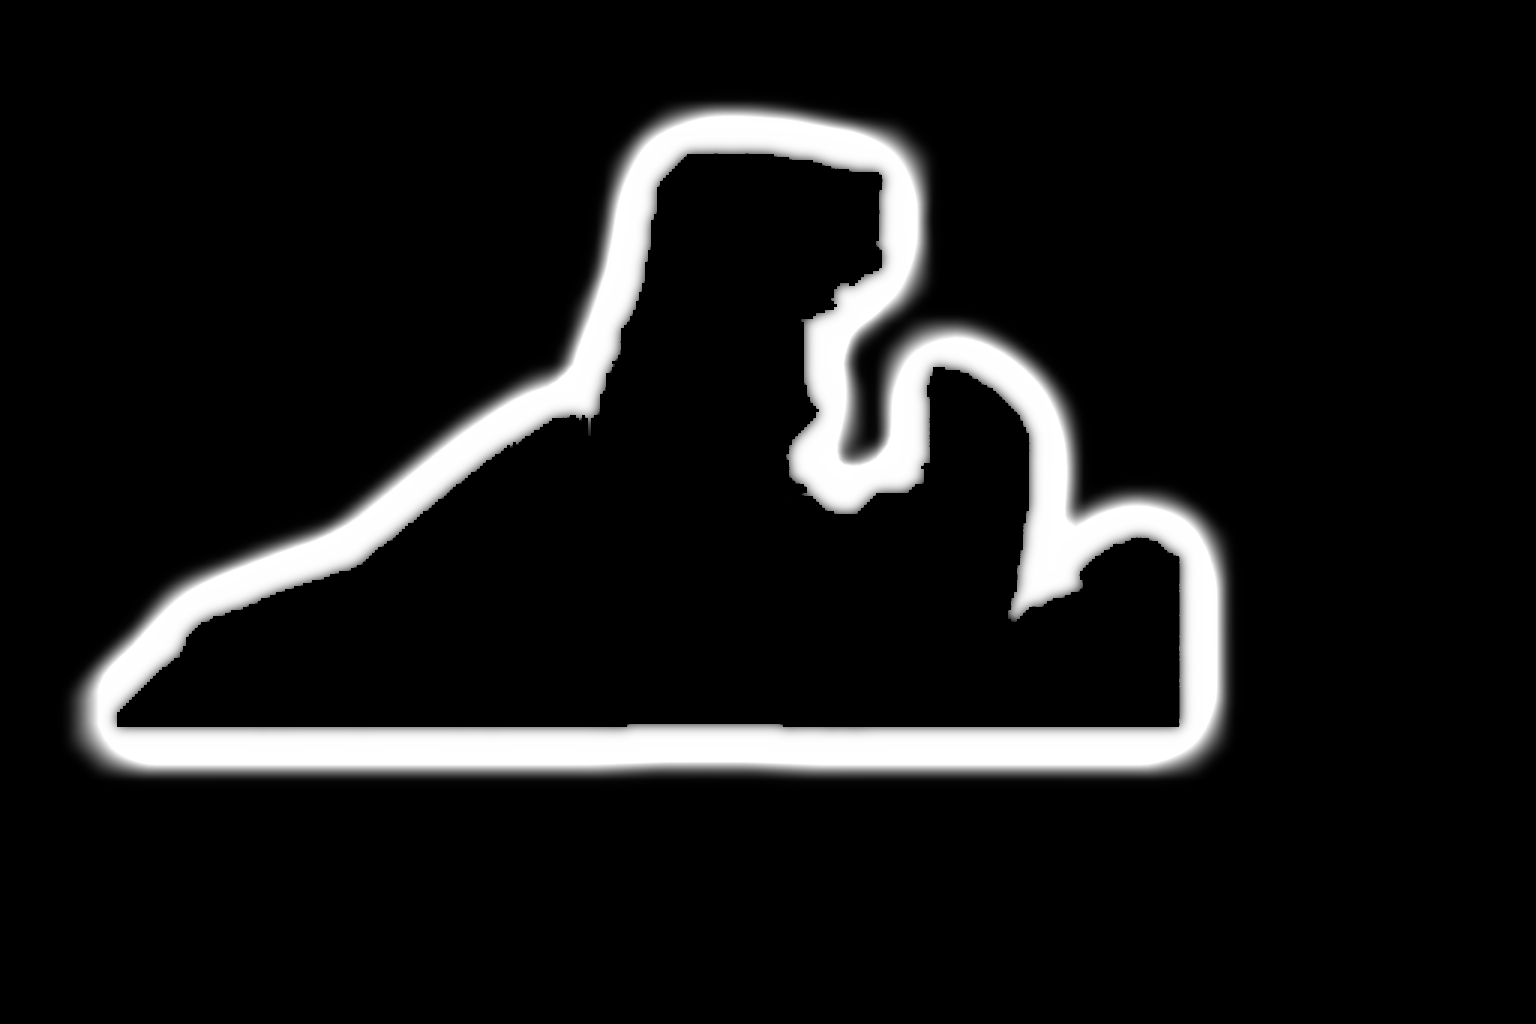
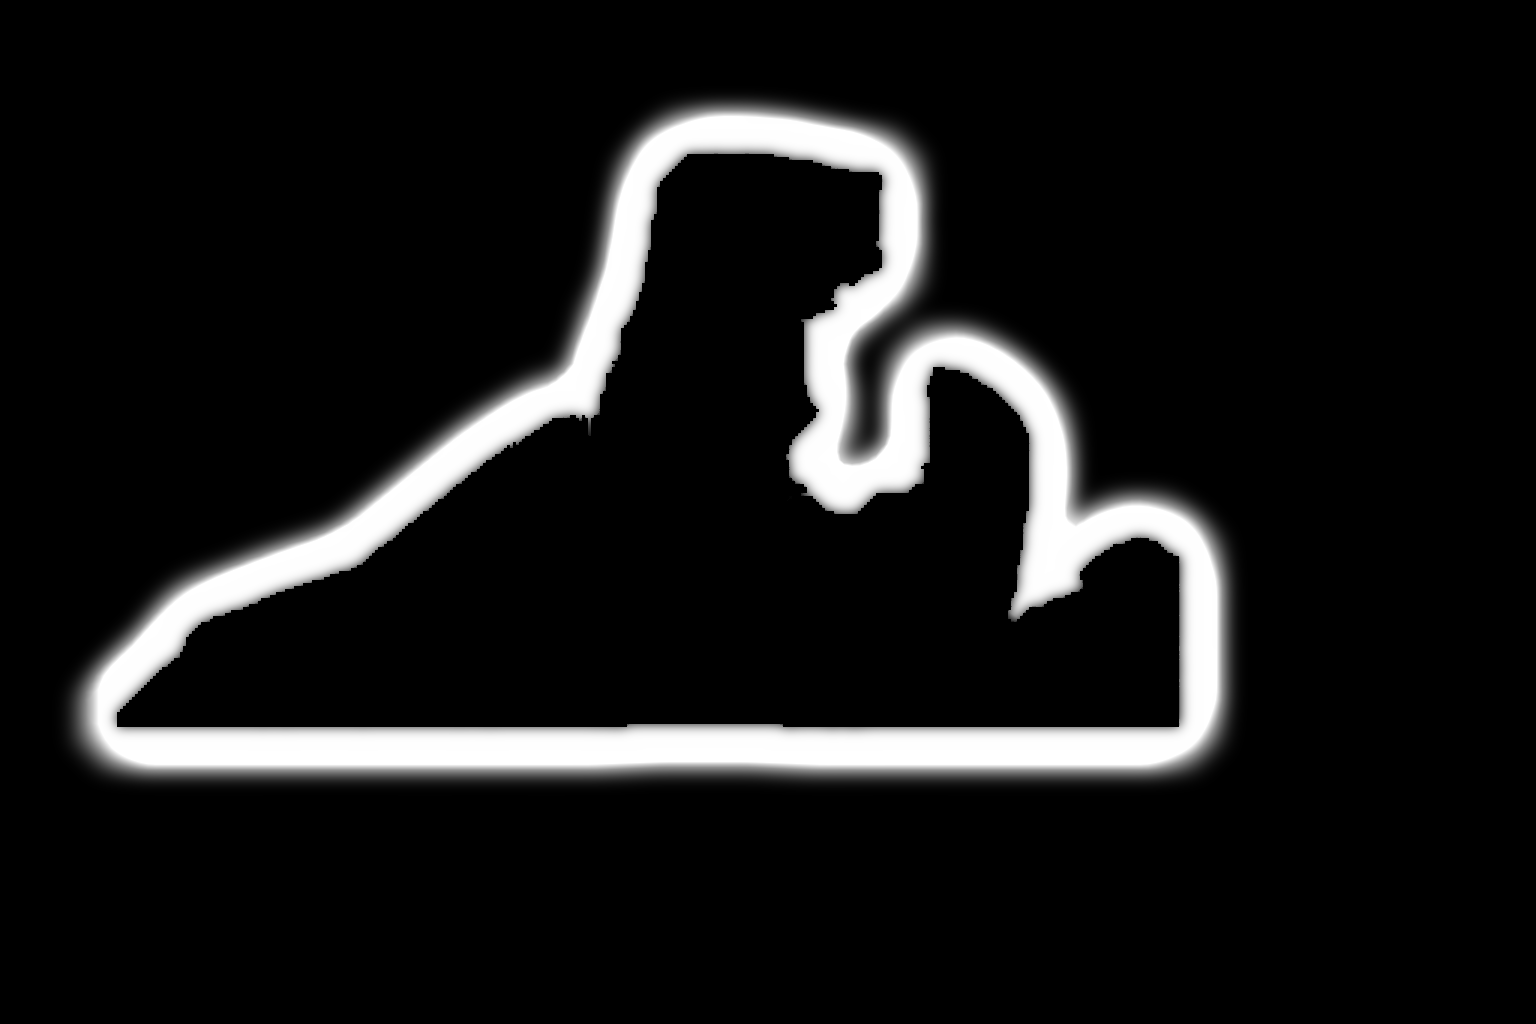
Use continuous wide veil transition

diff --git a/src/focusstack/veil_layers.py b/src/focusstack/veil_layers.py
@@ -3254,12 +3254,9 @@ def _one_sided_rear_application_mask(
     before_corroboration = int((mask > 1e-4).sum())
     after_corroboration = int((mask > 1e-4).sum())
     outer_feather = cv2.GaussianBlur(
-        mask, (0, 0), 0.75 * spatial_scale, borderType=cv2.BORDER_REFLECT
-    )
-    wide_tail = 0.20 * cv2.GaussianBlur(
         mask, (0, 0), 2.5 * spatial_scale, borderType=cv2.BORDER_REFLECT
     )
-    mask = np.maximum.reduce((mask, outer_feather, wide_tail))
+    mask = np.maximum(mask, outer_feather)
 
     front_veto = np.asarray(front_extent, bool)
     veto_removed = int(((mask > 1e-4) & front_veto).sum())
